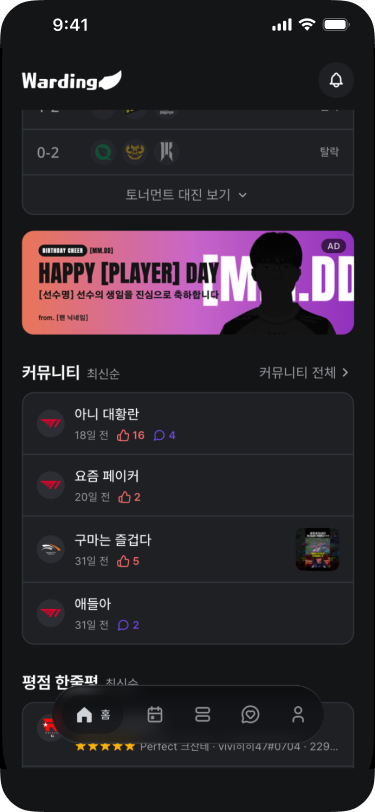
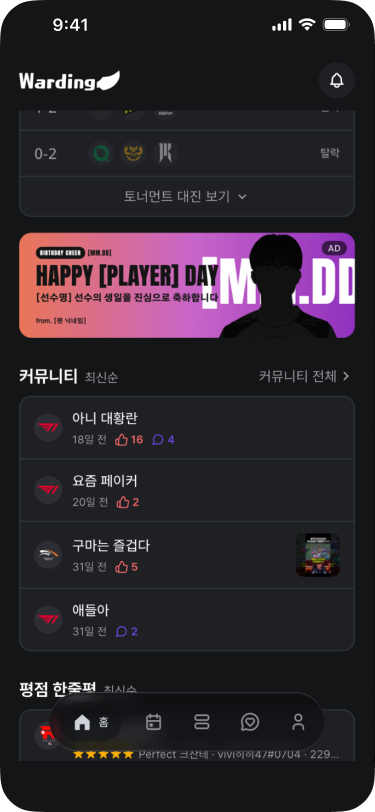
fix: 스플래시 하단 광고 카드 오른쪽 검은 세로선을 없애고 예시 사진을 교체한다
예시 사진(splash.png) 오른쪽 끝의 폰 베젤 테두리가 카드 가장자리에 세로선으로 보였다. 왼쪽 기준으로 5% 키워 오른쪽 끝을 ClipRect 밖으로 민다. 배너·팝업·등록 광고는 영향 없다.

Claude-Session: https://claude.ai/code/session_01QfXtco26FbJ8VhyEeNb9MB

diff --git a/lib/components/cheer_ad_banner.dart b/lib/components/cheer_ad_banner.dart
@@ -266,7 +266,17 @@ class CheerAdBannerCard extends StatelessWidget {
             maxHeight: double.infinity,
             child: SizedBox(
               width: area.maxWidth * slot.zoom,
-              child: Image.asset(slot.asset, fit: BoxFit.fitWidth),
+              child: slot == CheerAdSlot.splash
+                  // 에셋 오른쪽 끝에 폰 베젤의 어두운 테두리가 남아 있어 세로선처럼
+                  // 보인다. 왼쪽을 기준으로 살짝 키워 오른쪽 끝을 바깥 ClipRect 밖으로
+                  // 밀어낸다. (OverflowBox 가 폭을 영역에 꽉 채워 zoom 이 먹지 않아
+                  // Align.widthFactor 로는 자를 수 없다.)
+                  ? Transform.scale(
+                      scale: 1.05,
+                      alignment: Alignment.centerLeft,
+                      child: Image.asset(slot.asset, fit: BoxFit.fitWidth),
+                    )
+                  : Image.asset(slot.asset, fit: BoxFit.fitWidth),
             ),
           ),
         ),
